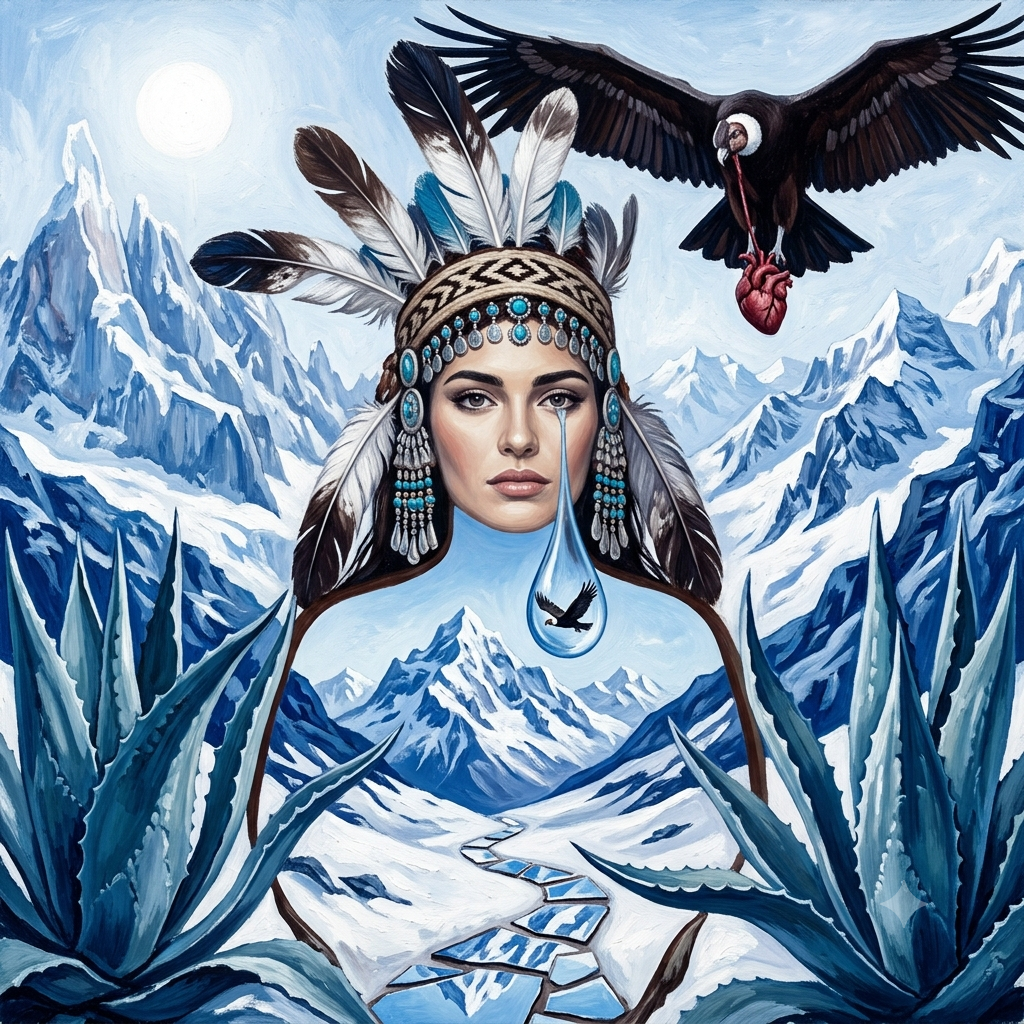
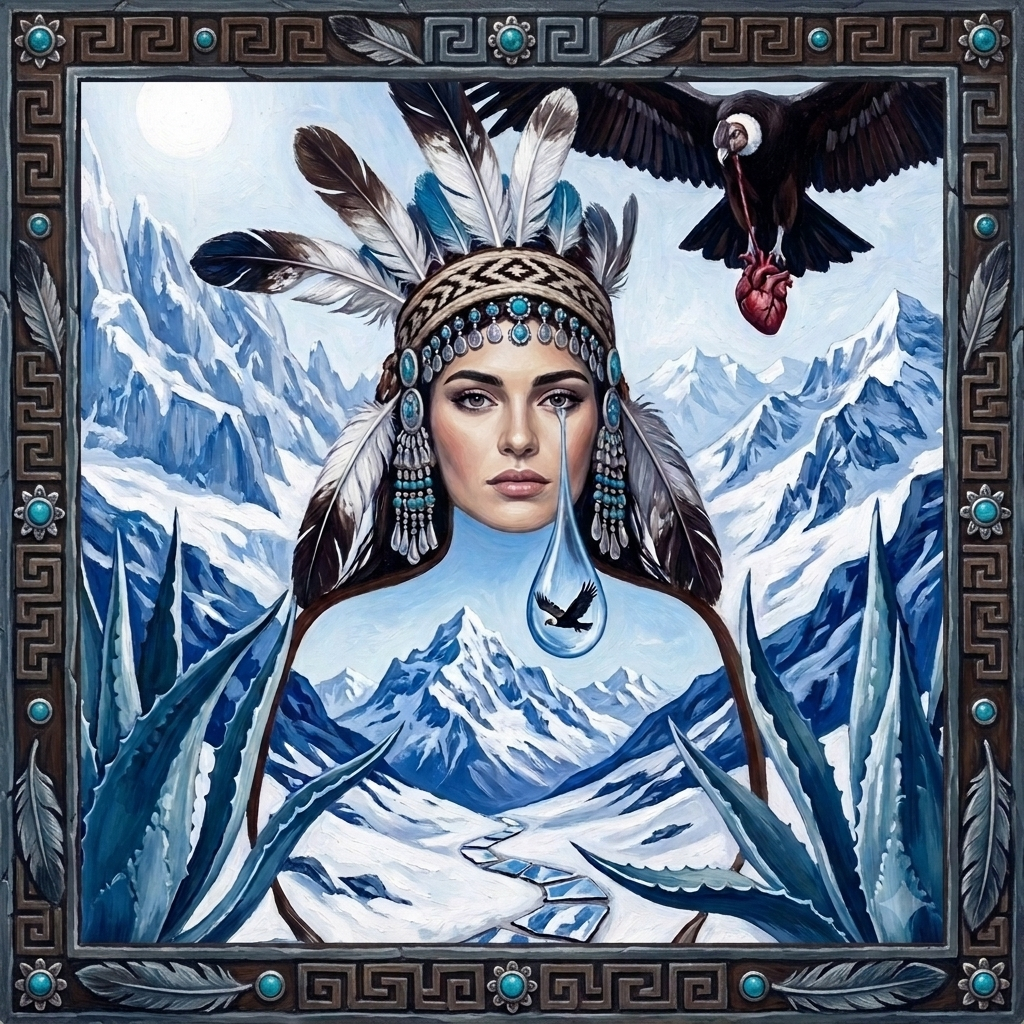
ramirez

diff --git a/public/app/jose-ramirez/index.html b/public/app/jose-ramirez/index.html
@@ -276,7 +276,7 @@
 
     <main id="docs">
 
-      <article>
+      <article id="poem_1">
         <h1 slot="title">Yo Vengo De America Del Sur!</h1>
         <div class="paragraphs">
           <p>
@@ -334,7 +334,7 @@
         </div>
       </article>
 
-      <article>
+      <article id="poem_2">
         <h1 slot="title">Muchacha Inmigrante</h1>
         <div class="paragraphs">
           <p>
